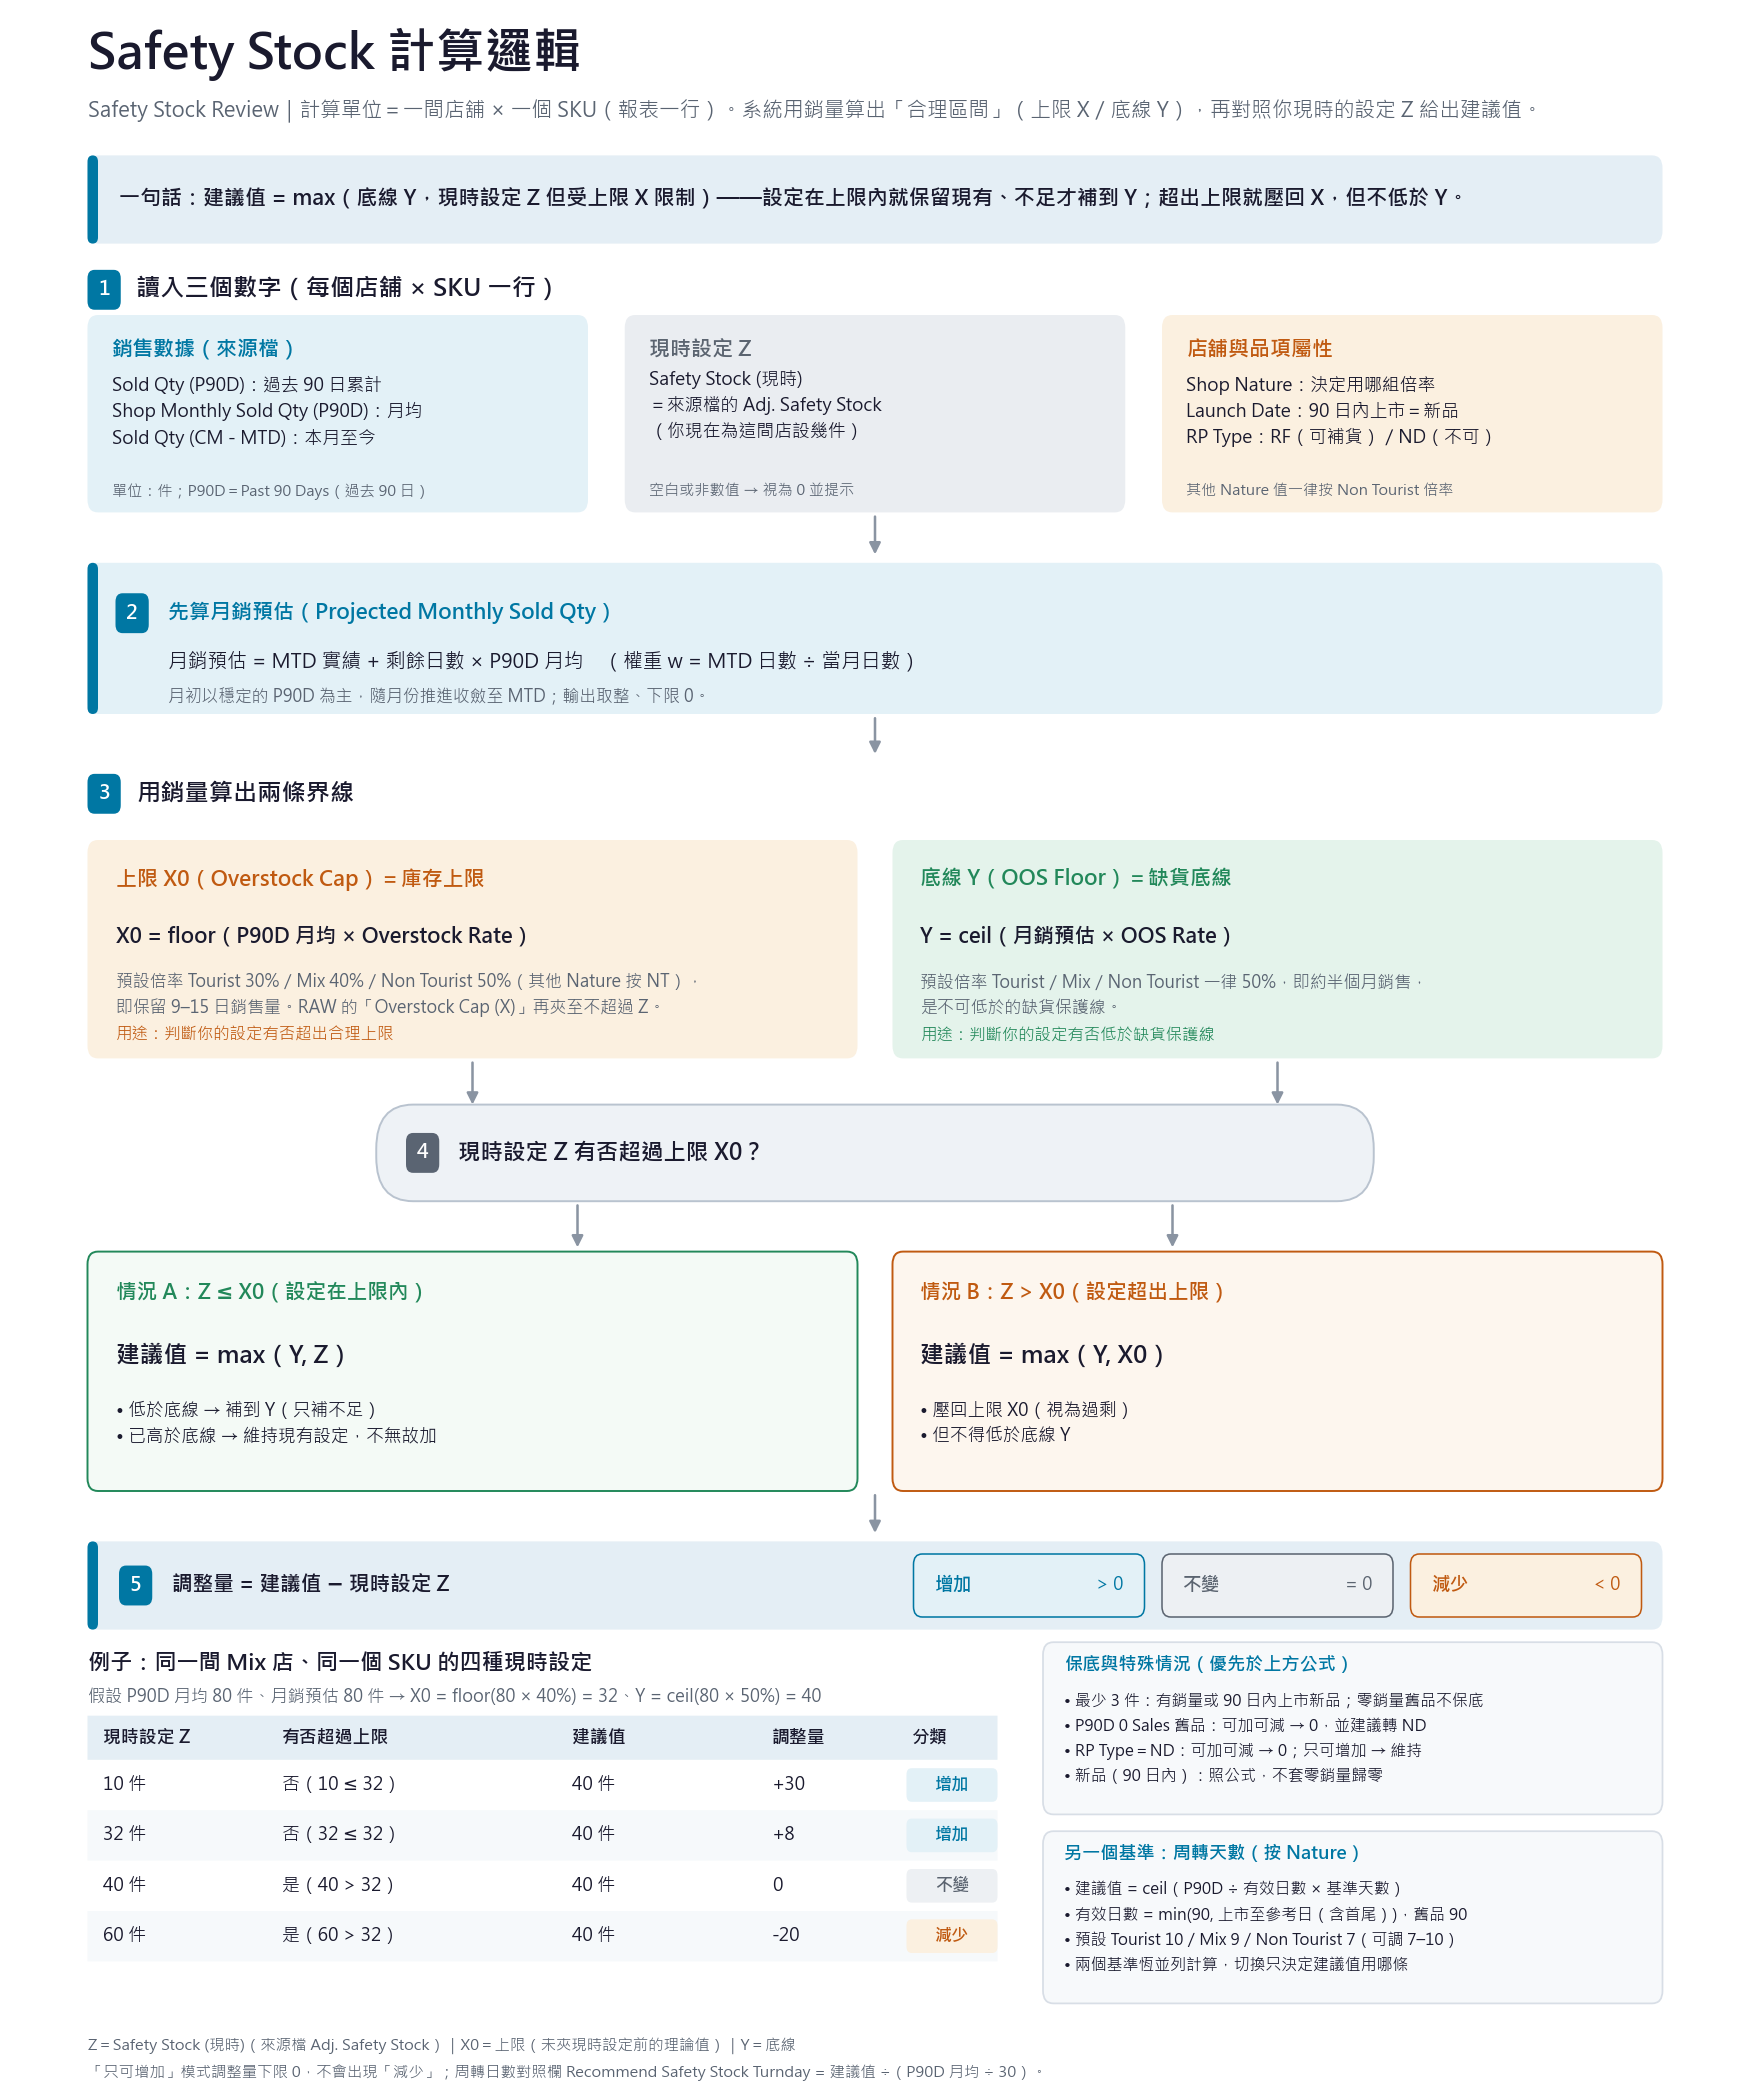
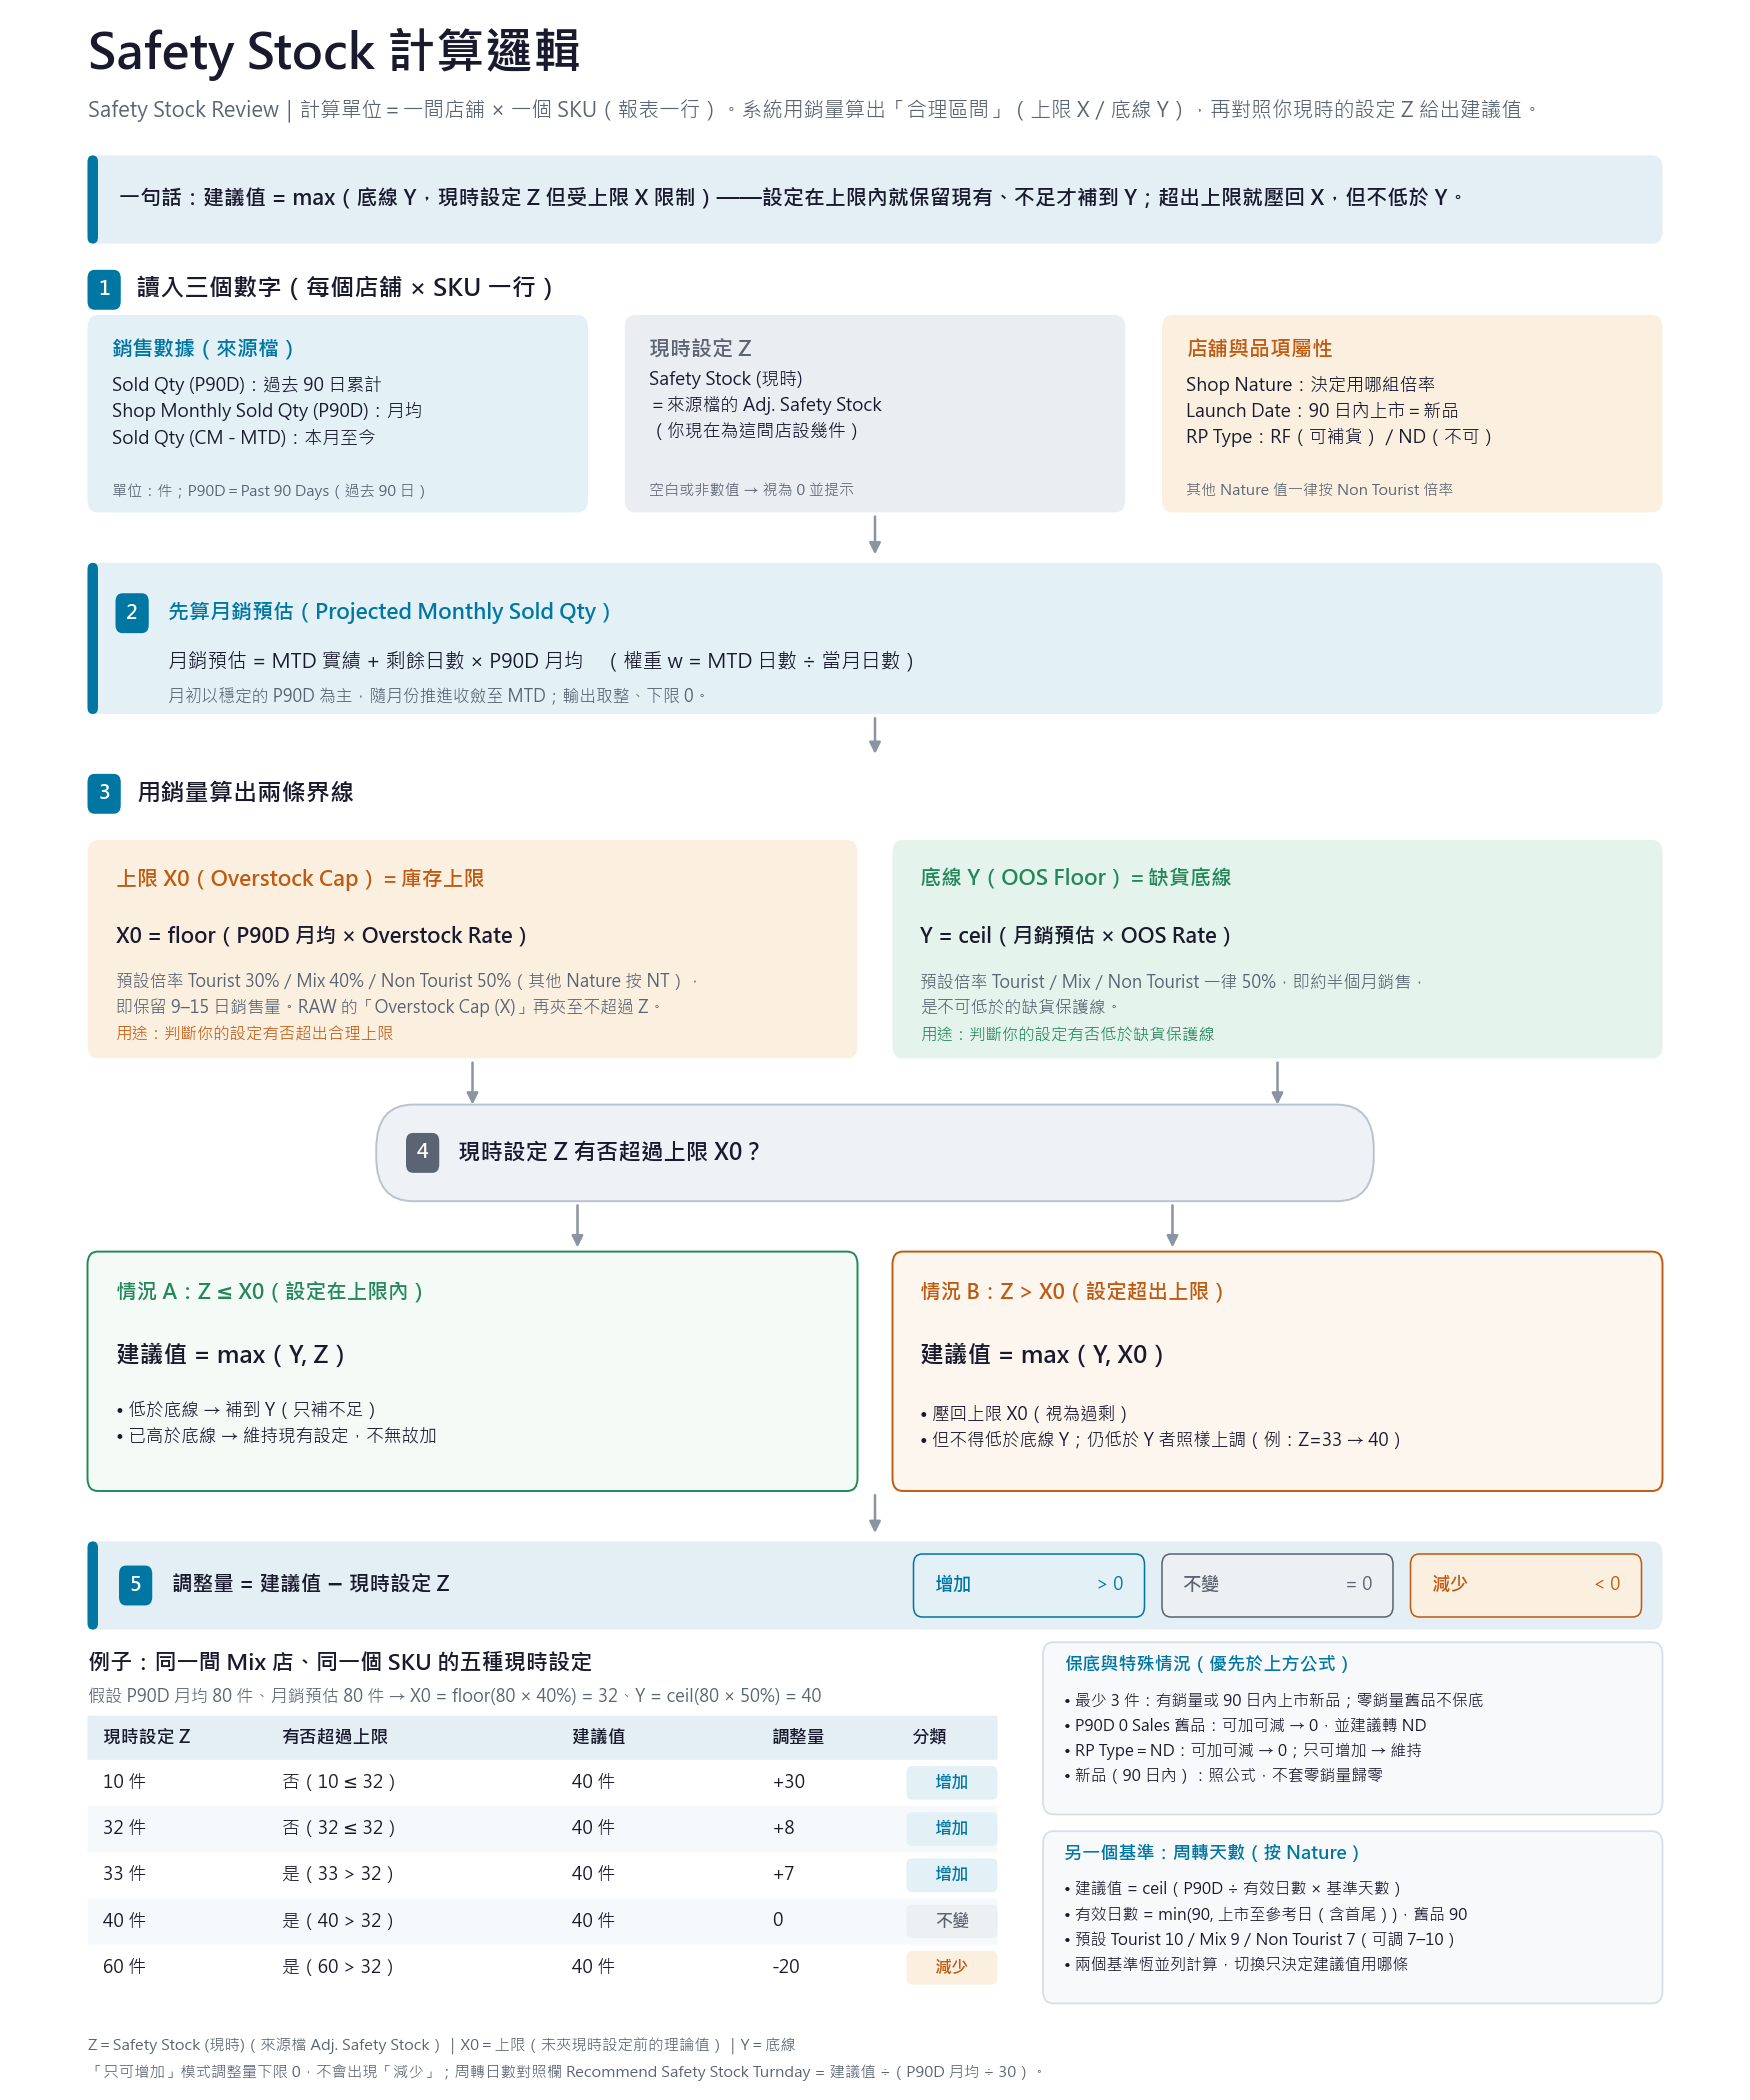
Safety 計算邏輯圖例子補上 Z=33（超出上限但仍低於底線 → 照樣上調）
- 例子由四行增至五行（10／32／33／40／60 件）：新增 Z=33 一列，示範情況 B
  （Z > X0=32）下若仍低於底線 Y=40，建議值 = max(40, 32) = 40、調整量 +7（增加）
- 情況 B 說明加註「但不得低於底線 Y；仍低於 Y 者照樣上調（例：Z=33 → 40）」
- 以 _add_combined_recommendation_columns 實跑核對：Z=33 → X=32、Y=40、建議 40、+7 增加

diff --git a/scripts/make_safety_logic_chart.py b/scripts/make_safety_logic_chart.py
@@ -186,9 +186,9 @@ T(0.066, _y5 + 0.032,
 box(0.510, _y5, 0.440, _h5, "#FDF6EE", ec=ORANGE, lw=1.0)
 T(0.526, _y5 + 0.094, "情況 B：Z > X0（設定超出上限）", size=10.6, color=ORANGE, weight="bold")
 T(0.526, _y5 + 0.064, "建議值 = max（Y, X0）", size=12.2, color=INK, weight="bold")
-T(0.526, _y5 + 0.032,
+T(0.526, _y5 + 0.030,
   "• 壓回上限 X0（視為過剩）\n"
-  "• 但不得低於底線 Y", size=9.1, color=INK)
+  "• 但不得低於底線 Y；仍低於 Y 者照樣上調（例：Z=33 → 40）", size=9.0, color=INK)
 
 arrow(0.5, 0.288, 0.5, 0.270)
 
@@ -209,7 +209,7 @@ for _name, _rule, _fg, _bg in _chips:
 
 # ── 例子 ──
 _ye = 0.208
-T(0.05, _ye, "例子：同一間 Mix 店、同一個 SKU 的四種現時設定", size=11.4, weight="bold")
+T(0.05, _ye, "例子：同一間 Mix 店、同一個 SKU 的五種現時設定", size=11.4, weight="bold")
 T(0.05, _ye - 0.016,
   "假設 P90D 月均 80 件、月銷預估 80 件 → X0 = floor(80 × 40%) = 32、Y = ceil(80 × 50%) = 40",
   size=8.8, color=SUB)
@@ -217,6 +217,7 @@ T(0.05, _ye - 0.016,
 _rows = [
     ("10 件", "否（10 ≤ 32）", "40 件", "+30", "增加", TEAL, TEAL_BG),
     ("32 件", "否（32 ≤ 32）", "40 件", "+8", "增加", TEAL, TEAL_BG),
+    ("33 件", "是（33 > 32）", "40 件", "+7", "增加", TEAL, TEAL_BG),
     ("40 件", "是（40 > 32）", "40 件", "0", "不變", GREY, "#EDF0F3"),
     ("60 件", "是（60 > 32）", "40 件", "-20", "減少", ORANGE, ORANGE_BG),
 ]
@@ -226,14 +227,14 @@ _hdr = 0.177
 box(_tx, _hdr - 0.015, _tw, 0.021, HEAD_BG, r=0.0)
 for _i, _h in enumerate(["現時設定 Z", "有否超過上限", "建議值", "調整量", "分類"]):
     T(_cols[_i] + 0.009, _hdr - 0.0045, _h, size=9.2, color=INK, weight="bold")
-_rh = 0.024
+_rh = 0.022
 for _r, (_z, _over, _rec, _delta, _cat, _fg, _bg) in enumerate(_rows):
     _ry = _hdr - 0.015 - _rh * (_r + 1)
     if _r % 2 == 1:
         box(_tx, _ry, _tw, _rh, ZEBRA, r=0.0)
     for _i, _v in enumerate([_z, _over, _rec, _delta]):
         T(_cols[_i] + 0.009, _ry + _rh / 2, _v, size=9.2, color=INK)
-    box(_cols[4] + 0.006, _ry + 0.004, 0.052, 0.016, _bg, r=0.003)
+    box(_cols[4] + 0.006, _ry + 0.003, 0.052, 0.016, _bg, r=0.003)
     T(_cols[4] + 0.032, _ry + _rh / 2, _cat, size=8.8, color=_fg, weight="bold", ha="center")
 
 # ── 右側說明卡 ──

diff --git a/VERSION.md b/VERSION.md
@@ -6,7 +6,7 @@
 
 ### Safety Stock Review
 
-- **新增 Safety 計算邏輯圖**（`assets/safety_logic_guide.png`，由 `scripts/make_safety_logic_chart.py` 生成）：單頁流程圖，順序為「讀入三個數字（銷售數據／現時設定 Z／店舖屬性）→ 月銷預估 → 上限 X0 與底線 Y → Z 與 X0 比較 → 兩種情況的建議值 → 調整量分類」；另附四行例子（同一間 Mix 店 10／32／40／60 件）與「保底與特殊情況」「周轉天數基準」兩張說明卡
+- **新增 Safety 計算邏輯圖**（`assets/safety_logic_guide.png`，由 `scripts/make_safety_logic_chart.py` 生成）：單頁流程圖，順序為「讀入三個數字（銷售數據／現時設定 Z／店舖屬性）→ 月銷預估 → 上限 X0 與底線 Y → Z 與 X0 比較 → 兩種情況的建議值 → 調整量分類」；另附五行例子（同一間 Mix 店 10／32／33／40／60 件，其中 Z=33 一列專門示範「已超出上限 X0=32，但仍在底線 Y=40 之下，因此照樣上調至 40（+7）」）與「保底與特殊情況」「周轉天數基準」兩張說明卡
 - 圖中公式與 `_add_combined_recommendation_columns` 同一準則：`X0 = floor(P90D 月均 × Overstock Rate)`、`Y = ceil(月銷預估 × OOS Rate)`、建議值 = `Z ≤ X0 → max(Y, Z)`／`Z > X0 → max(Y, X0)`、周轉所需量 = `ceil(P90D ÷ 有效日數 × 基準天數)`；保底 3 件、舊品零銷量、RP Type＝ND 與新品保護均已在圖上標示
 - 使用說明頁「🔒 Safety Stock Review」區塊在「模式說明」之後直接顯示該圖（不入收合區），核心計算規則緊隨其後
 - Excel 輸出：圖插入「說明」工作表 ④ 實用提示之後新增的 ⑤ 段（900 px 寬、等比縮放），副標題補一句「最下方的 ⑤ 為 Safety 計算邏輯圖」
